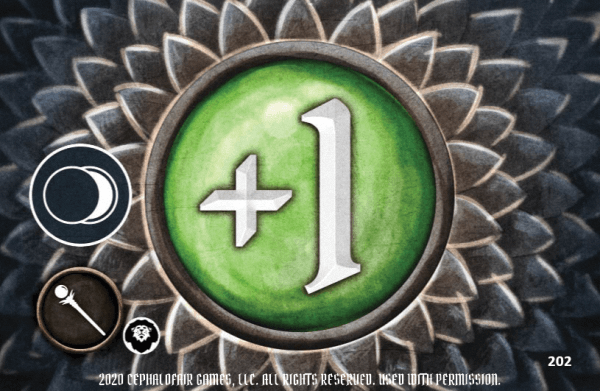
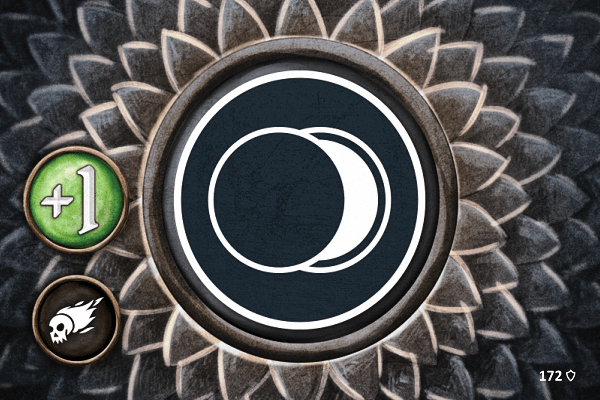
perks for jaws of the lion

diff --git a/frosthaven_assistant/lib/Layout/modifier_card_widget.dart b/frosthaven_assistant/lib/Layout/modifier_card_widget.dart
@@ -40,10 +40,10 @@ class ModifierCardWidget extends StatelessWidget {
             ),
             if (isCharacter)
               Positioned(
-                height: 8 * scale,
-                width: 8 * scale,
+                height: 9 * scale,
+                width: 9 * scale,
                 top: 53 * scale / 2,
-                left: 4 * scale,
+                left: 3 * scale,
                 child: Image.asset(
                     'assets/images/attack/class-marker-background.png'),
               ),
@@ -51,12 +51,10 @@ class ModifierCardWidget extends StatelessWidget {
               Positioned(
                 height: 7 * scale,
                 width: 7 * scale,
-                top: 53 * scale / 2,
+                top: 54 * scale / 2,
                 left: 4 * scale,
                 child: Image.asset(
-                    //colorBlendMode: BlendMode.modulate,
-                    color: Colors.white, //try lighter gray?
-                    'assets/images/class-icons/$name.png'),
+                    color: Colors.white, 'assets/images/class-icons/$name.png'),
               ),
           ],
         ));

diff --git a/frosthaven_assistant/lib/Resource/line_builder/token_applier.dart b/frosthaven_assistant/lib/Resource/line_builder/token_applier.dart
@@ -8,6 +8,7 @@ class TokenApplier {
     line = line.replaceAll('+0', '%+0%');
     line = line.replaceAll('-1', '%-1%');
     line = line.replaceAll('-2', '%-2%');
+    line = line.replaceAll('+1', '%+1%');
     line = line.replaceAll('+2', '%+2%');
     line = line.replaceAll('+3', '%+3%');
     line = line.replaceAll('+4', '%+4%');
